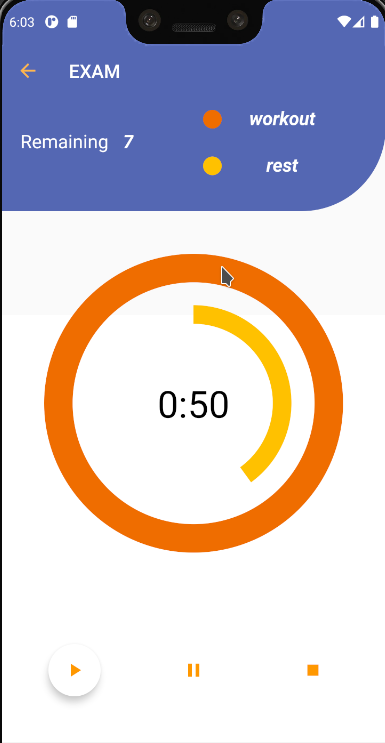
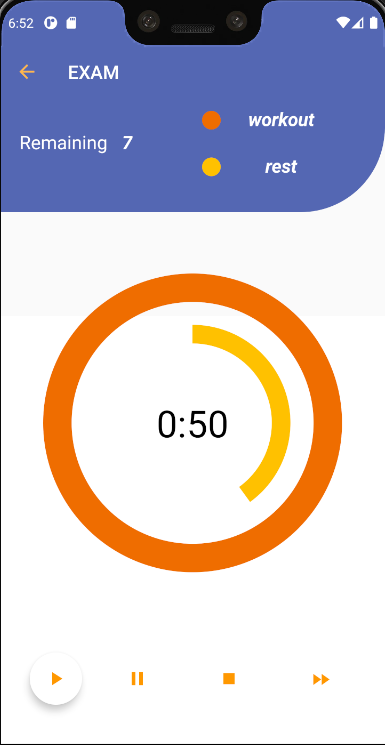
added new descrition and photo on Readme

diff --git a/README.md b/README.md
@@ -6,7 +6,7 @@ This Android Application is meant to generate a clock with features to make any 
 
 * The user can create an activity for the chronometer and store the timings he does for the activities. The timings are visible and deletable.
 
-* The user can create an activity for an interval timer and schedule the timings to do, that are also divided into work and rest. 
+* The user can create an activity for an interval timer and schedule the timings to do, that are also divided into work and rest. The interval timer can be stopped, paused, resetted and fast forwarded. 
 
 * The data stored for the chronometer and for the timer will be plotted into graphs. The graphs types are not chosen yet.
 
